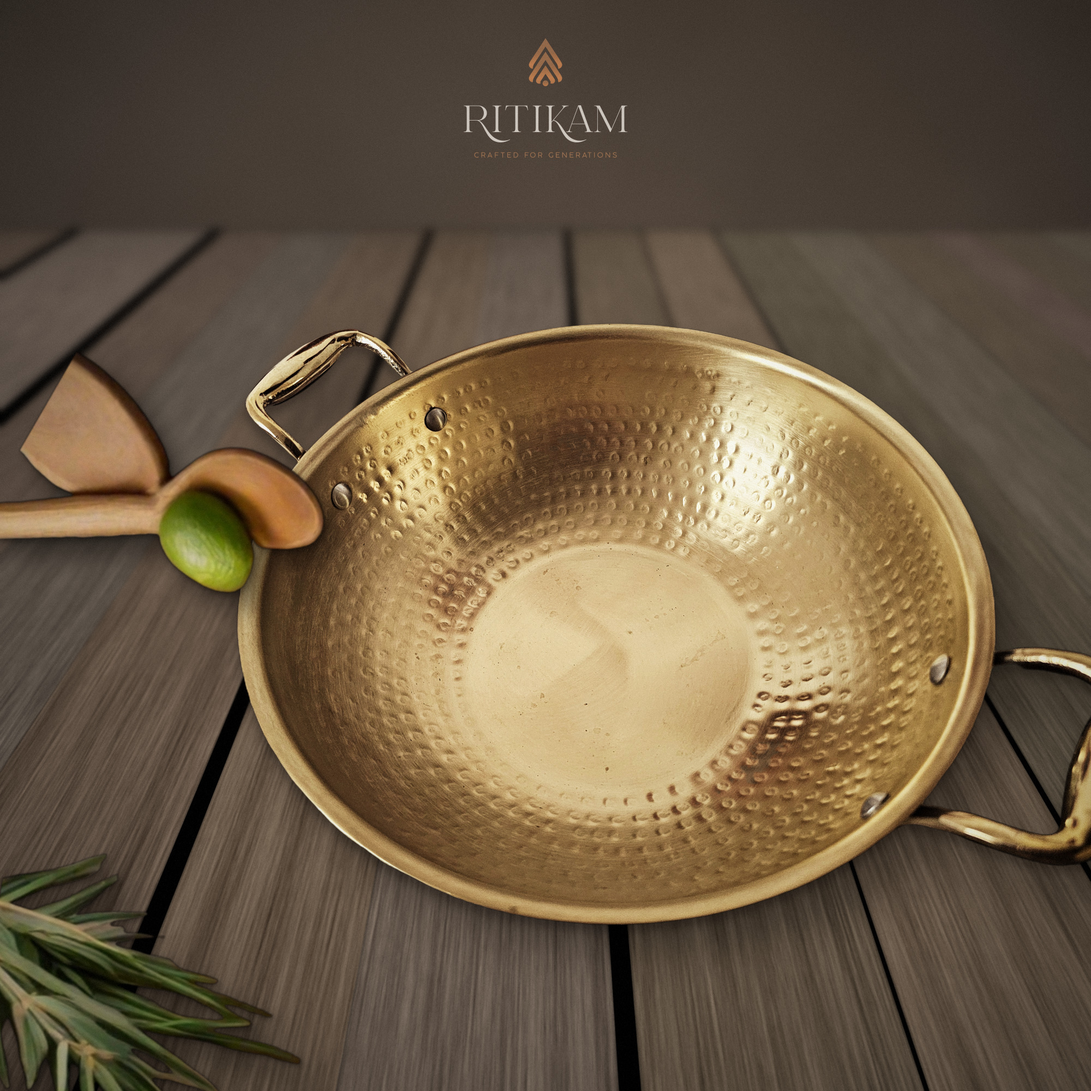
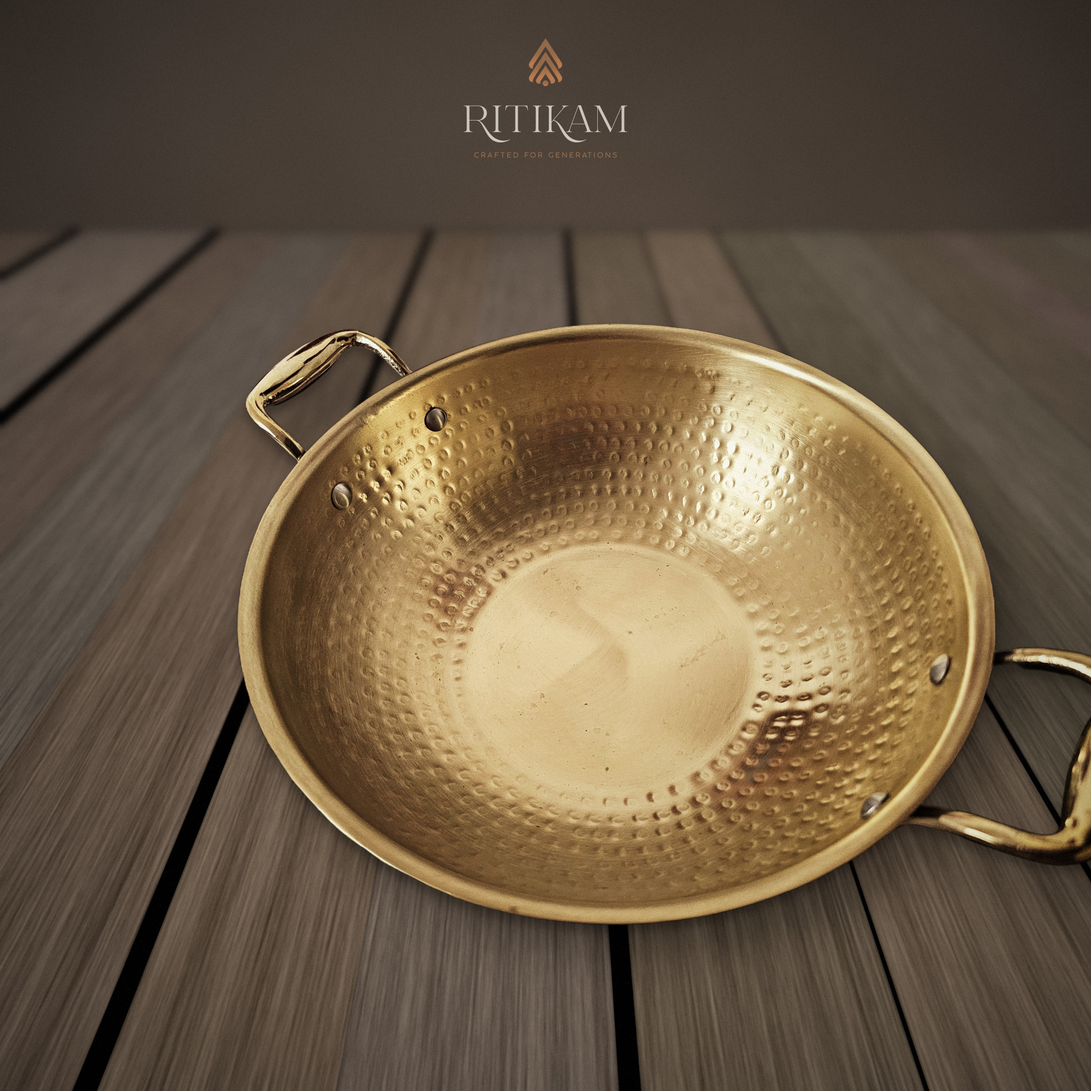
Photoshoot v2 shot 8: remove spoon, lime and rosemary for a clean product shot
Claude-Session: https://claude.ai/code/session_01TnJbPoKK353phNoKg4wXPJ

Changed region(s): [[0.0, 0.775, 0.279, 1.0], [0.0, 0.31, 0.31, 0.558]]

diff --git a/ritikam-brass-photoshoot/source/shoot2.py b/ritikam-brass-photoshoot/source/shoot2.py
@@ -282,7 +282,7 @@ CFG = {
     7: dict(mode='hi', horizon=380, w=1540, left=-30, cx=0, base=1680, sdx=50, sdy=60,
             props=[('spoons', 1400, 1580, 660, 6, False), ('rosemary', 1560, 470, 500, 160, True)]),
     8: dict(mode='hi', horizon=420, w=1620, left=430, cx=0, base=1700, sdx=50, sdy=60,
-            props=[('rosemary', -40, 1560, 600, -10, False), ('spoons', -60, 640, 560, 150, False)]),
+            props=[]),
 }
 PROPS = {n: np.array(Image.open(f'{D}/../props/{n}.png').convert('RGBA')) for n in ('rosemary', 'spoons')}
 PROPS = {k: v[Image.fromarray(v).getbbox()[1]:Image.fromarray(v).getbbox()[3], Image.fromarray(v).getbbox()[0]:Image.fromarray(v).getbbox()[2]] for k, v in PROPS.items()}
